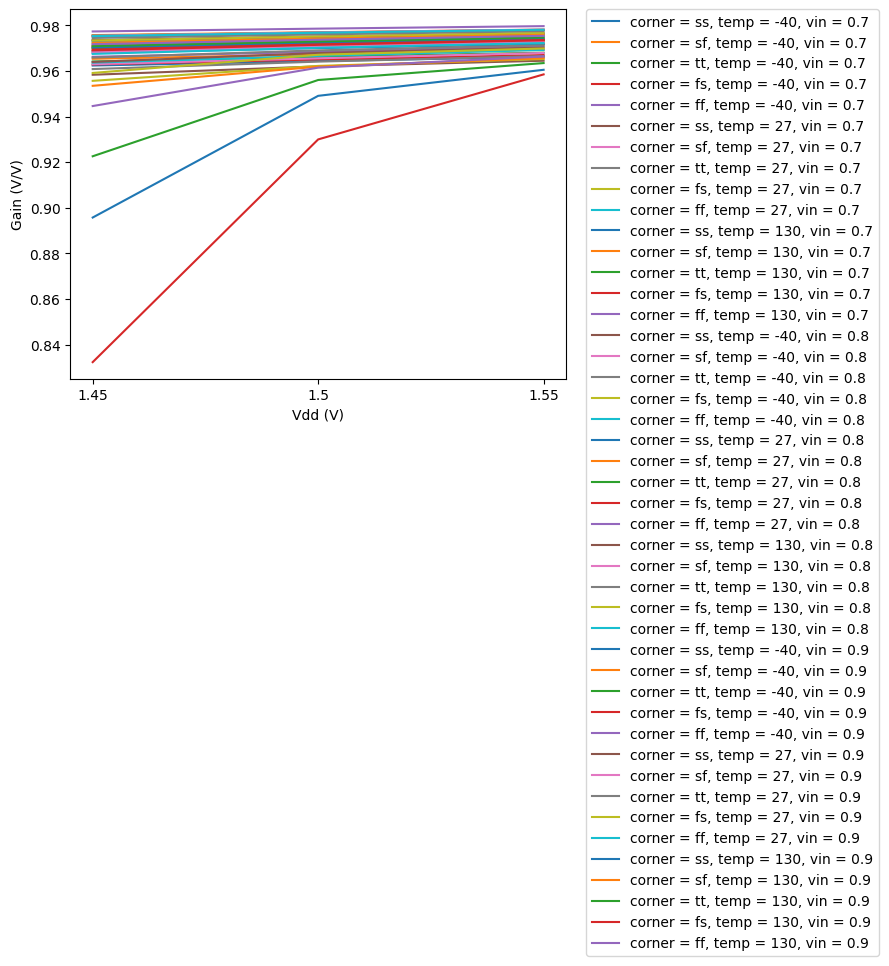
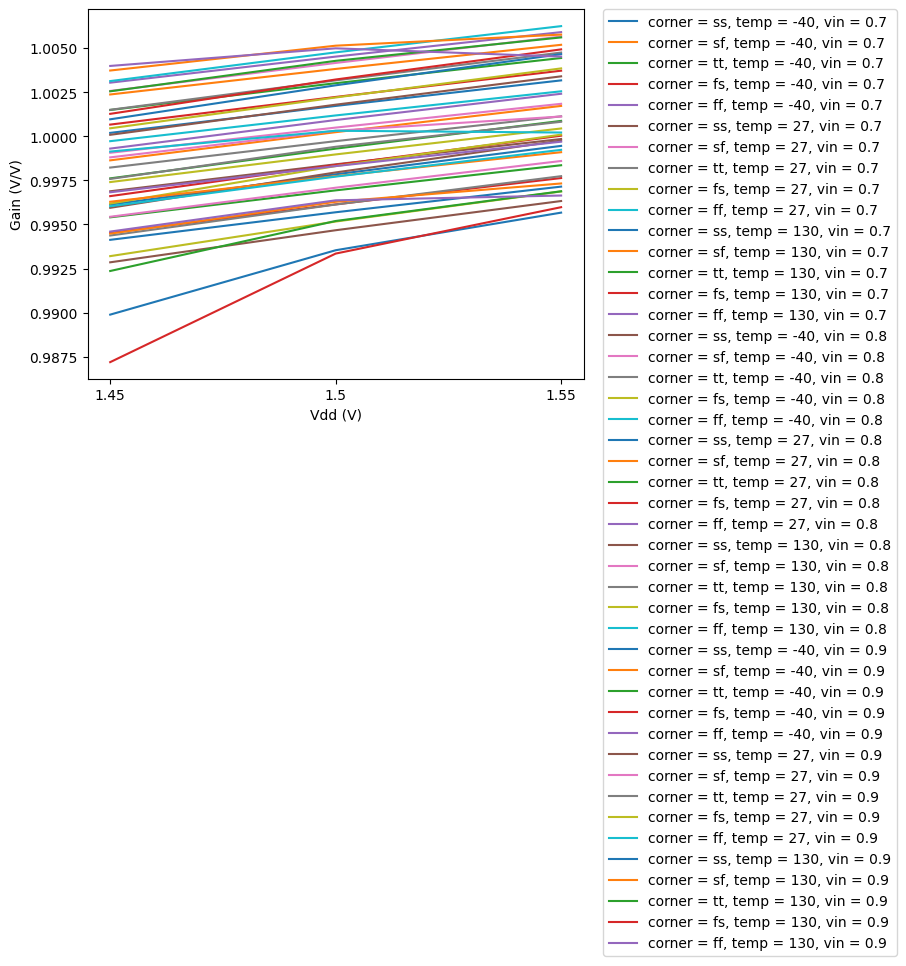
Using dcgain instead of (fishy) acgain, now all pass, finishing OTA section

diff --git a/cace/_docs/ota-5t_schematic.md b/cace/_docs/ota-5t_schematic.md
@@ -5,7 +5,7 @@
 
 |      Parameter       |         Tool         |     Result      | Min Limit  |  Min Value   | Typ Target |  Typ Value   | Max Limit  |  Max Value   |  Status  |
 | :------------------- | :------------------- | :-------------- | ---------: | -----------: | ---------: | -----------: | ---------: | -----------: | :------: |
-| Gain                 | ngspice              | gain                 |        0.95 V/V |  0.832 V/V |          any |  0.971 V/V |     1.05 V/V |  0.980 V/V |   Fail ❌    |
+| Gain                 | ngspice              | gain                 |        0.95 V/V |  0.987 V/V |          any |  1.000 V/V |     1.05 V/V |  1.006 V/V |   Pass ✅    |
 | Bandwidth            | ngspice              | bw                   |         10e6 Hz | 15551000.000 Hz |          any | 26912100.000 Hz |          any | 34051700.000 Hz |   Pass ✅    |
 | Output noise         | ngspice              | noise                |             any |   0.308 mV |          any |   0.371 mV |         1 mV |   0.455 mV |   Pass ✅    |
 | Settling time        | ngspice              | tsettle              |             any |   0.135 us |          any |   0.142 us |        10 us |   0.155 us |   Pass ✅    |
